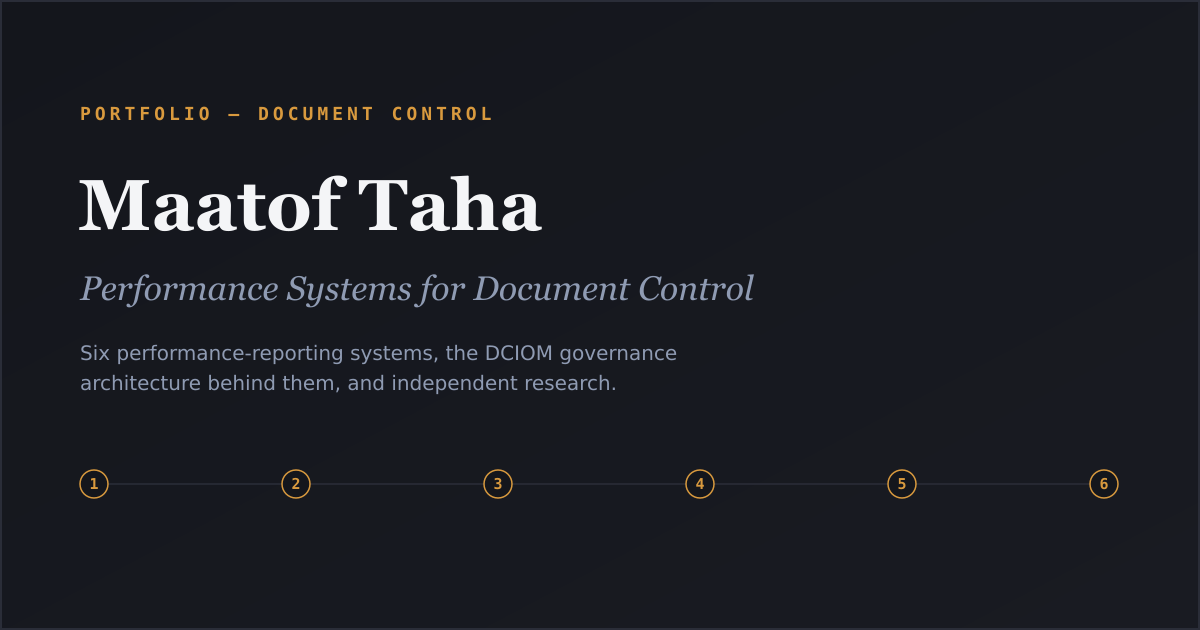
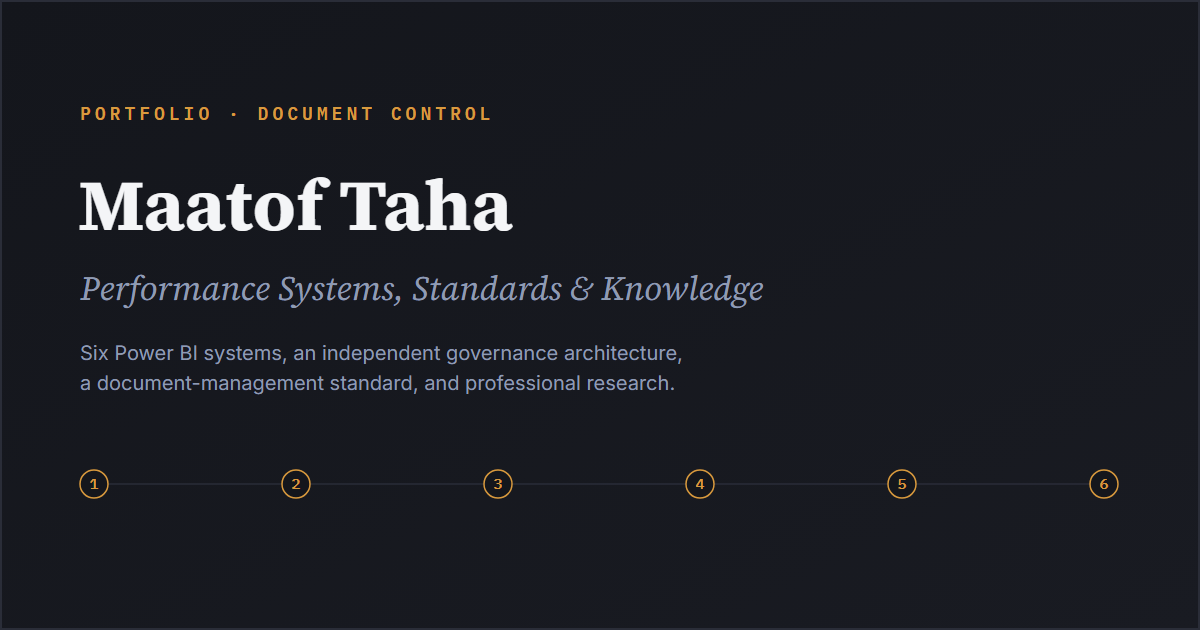
added standard page

diff --git a/src/pages/ResearchPage.tsx b/src/pages/ResearchPage.tsx
@@ -38,7 +38,7 @@ export default function ResearchPage() {
             transparent, so `divide-*` draws the hairlines instead of the
             gap-px/parent-background trick, which would otherwise show the
             gradient through the gaps instead of the border colour. */}
-        <div className="grid sm:grid-cols-3 border border-border divide-y sm:divide-y-0 sm:divide-x divide-border bg-gradient-to-b sm:bg-gradient-to-r from-cyan-900/[0.04] via-cyan-900/[0.15] to-transparent">
+        <div className="grid sm:grid-cols-3 border border-border divide-y sm:divide-y-0 sm:divide-x divide-border bg-gradient-to-b sm:bg-gradient-to-r from-cyan-900/[0.04] via-cyan-900/[0.15] to-transparent mt-5">
           {dbok.orientation.map((item) => (
             <div key={item.label} className="p-6">
               <p className="section-label mb-2">{item.label}</p>
@@ -131,7 +131,8 @@ export default function ResearchPage() {
           <p className="text-muted-foreground leading-relaxed max-w-2xl mb-4">
             The Document Management Standard takes the document-management
             portion of this reference and states it as normative requirements:
-            18 Parts, 140 clauses and 226 conformance checks, each traced to a published source.
+            18 Parts, 140 clauses and 226 conformance checks, each traced to a
+            published source.
           </p>
           <Link
             to="/standard"

diff --git a/src/data/architecture.ts b/src/data/architecture.ts
@@ -59,7 +59,7 @@ export interface DciomArchitecture {
 export const dciomArchitecture: DciomArchitecture = {
   fullName: "Document Control Intelligence & Operations Management",
   positioningStatement:
-    "An independently designed documentation-specific performance-governance framework, not an industry standard, not certified, not externally adopted. It turns existing document-control data into measured performance, diagnosis, and decision support, and is formally specified in a version-controlled Framework Standard rather than left as an informal set of practices.",
+    "An independently designed documentation-specific performance-governance framework, not an industry standard, not certified, not externally adopted. It turns existing document-control data into measured performance, diagnosis, and decision support.",
 
   pillars: [
     {

diff --git a/src/data/research.ts b/src/data/research.ts
@@ -30,7 +30,7 @@ export interface DbokReference {
 export const dbok: DbokReference = {
   name: "Documentation Body of Knowledge (DBoK)",
   positioningStatement:
-    "An independently authored architectural reference mapping the wider documentation and information-governance landscape, from enterprise governance through document control and performance governance, as a structured map of disciplines, frameworks, concepts, artifacts, technologies, standards, and roles, not a single-discipline manual.",
+    "An independently authored reference mapping how documentation and information-governance disciplines, frameworks, standards, technologies, and roles connect. It spans enterprise governance, document control, and performance governance rather than focusing on one discipline.",
   orientation: [
     {
       label: "Why",

diff --git a/src/pages/HomePage.tsx b/src/pages/HomePage.tsx
@@ -252,8 +252,8 @@ export default function HomePage() {
             <p className="section-label mb-3">The Applied Work</p>
             <p className="text-foreground/80 leading-relaxed max-w-2xl mb-8">
               Six Power BI systems over the same document set, each answering
-              the question the one before it raises: observe, measure,
-              diagnose, act, project, verify.
+              the question the one before it raises: observe, measure, diagnose,
+              act, project, verify.
             </p>
             <div className="flex justify-center items-center">
               <SystemLine />

diff --git a/src/pages/ArchitecturePage.tsx b/src/pages/ArchitecturePage.tsx
@@ -49,7 +49,7 @@ export default function ArchitecturePage() {
 
       {/* Light -- HORIZON and the architecture intro, in their original
           sequence right after DCIOM. */}
-      <div className="theme-editorial bg-background text-foreground">
+      <div className="theme-editorial bg-background text-foreground mt-20">
         {/* The timeline is a thin band of content, so its padding is kept
             tighter than a text section's -- and the nodes are sized up to
             carry the width they're given rather than floating in it. */}
